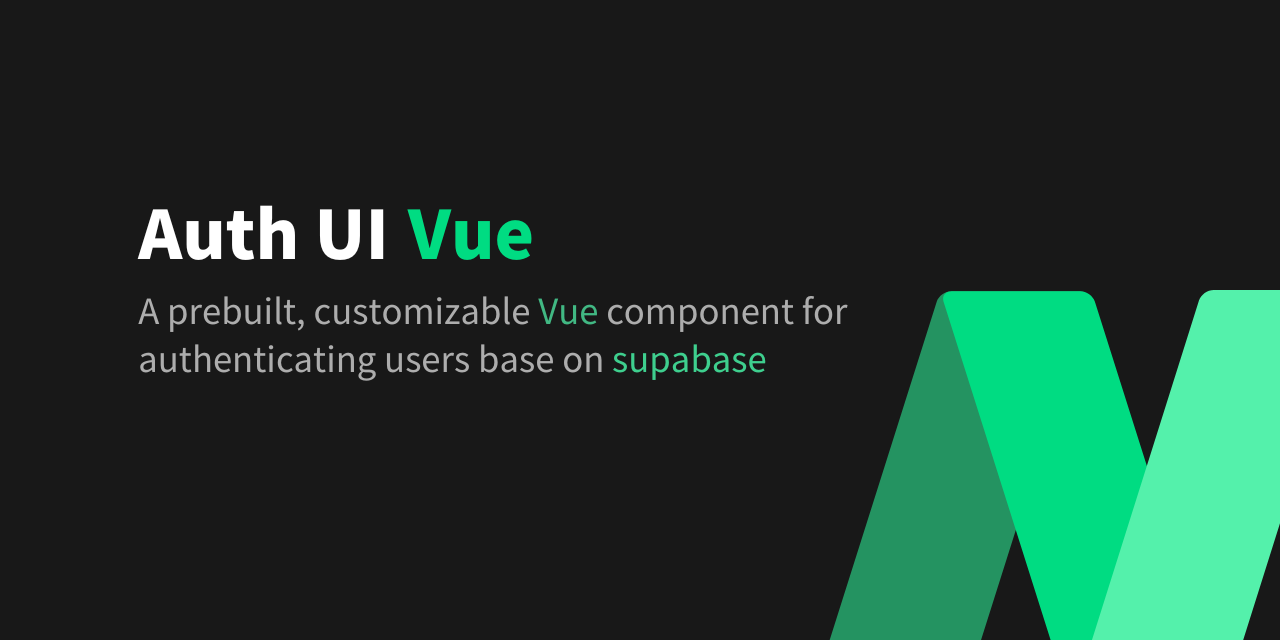
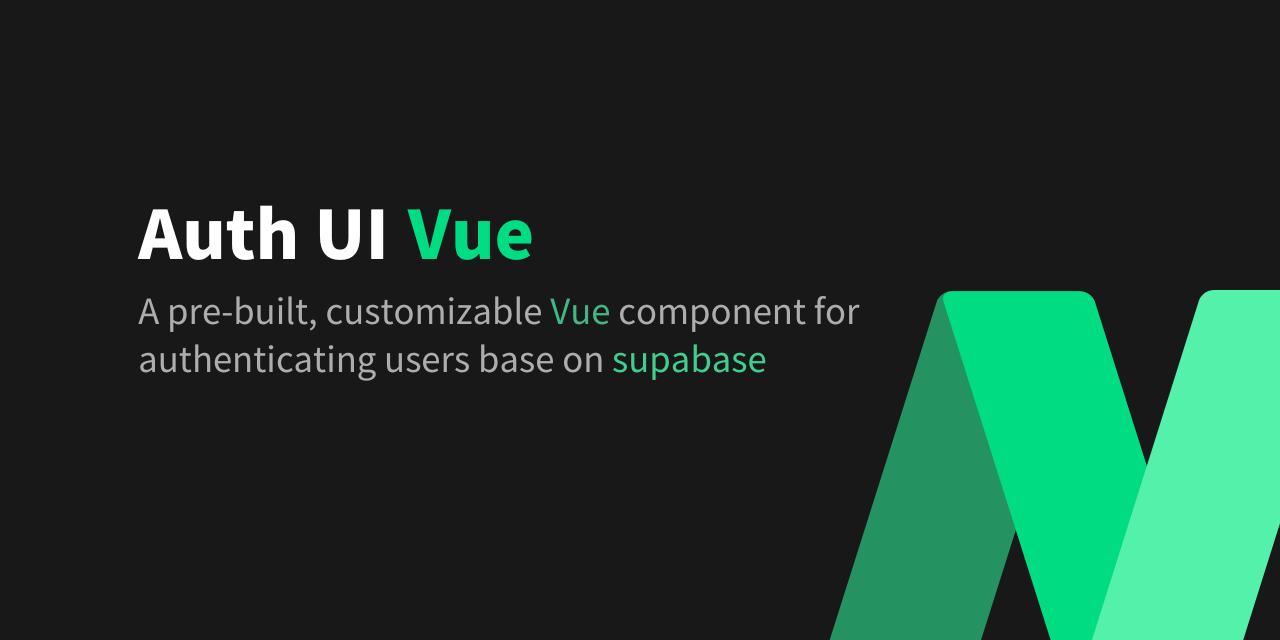
chore: release v0.0.1

Changed region(s): [[0.1562, 0.4688, 0.6875, 0.5312]]

diff --git a/src/composables/useSEOHeader.ts b/src/composables/useSEOHeader.ts
@@ -20,11 +20,11 @@ const useSEOHeader = () => {
     description: 'Pre-built auth ui for Vue 3 | Nuxt 3',
     ogDescription: 'Pre-built auth ui for Vue 3 | Nuxt 3',
     ogTitle: 'Auth UI Vue',
-    ogImage: 'https://auth-ui-vue.vercel.app/og.png',
+    ogImage: 'https://auth-ui-vue.netlify.app/og.png',
     ogImageHeight: '882',
     ogImageWidth: '1686',
     twitterCard: 'summary_large_image',
-    twitterImage: 'https://auth-ui-vue.vercel.app/og.png',
+    twitterImage: 'https://auth-ui-vue.netlify.app/og.png',
     twitterTitle: 'Auth UI Vue',
     twitterDescription: 'Pre-built auth ui for Vue 3 | Nuxt 3'
   })

diff --git a/README.md b/README.md
@@ -2,8 +2,9 @@
 
 ![@nuxtbase/auth-ui-vue minzip package size](https://img.shields.io/bundlephobia/minzip/@nuxtbase/auth-ui-vue)
 ![@nuxtbase/auth-ui-vue package version](https://img.shields.io/npm/v/@nuxtbase/auth-ui-vue.svg?colorB=green)
+[![Netlify Status](https://api.netlify.com/api/v1/badges/a855cf9a-2ec2-448a-a6a4-9661815bcb97/deploy-status)](https://app.netlify.com/sites/auth-ui-vue/deploys)
 
-> Pre-built auth ui widgets to get started in minutes.
+> Pre-built auth widgets to get started in minutes.
 
 ## Preview
 
@@ -11,7 +12,7 @@
 
 ## Introduction
 
-`auth-ui-vue` is a prebuilt, customizable `Vue` component for authenticating users base on `supabase`
+`auth-ui-vue` is a pre-built, customizable `Vue` component for authenticating users base on `supabase`
 
 Customizable authentication UI component with custom themes and extensible styles to match your brand and aesthetic.
 
@@ -31,6 +32,28 @@ yarn add @nuxtbase/auth-ui-vue
 
 ```html
 <!-- App.vue -->
+<template>
+  ...
+  <Auth
+    :appearance="{
+      theme: ThemeSupa,
+    }"
+    :supabase-client="supabase"
+  />
+  ...
+</template>
+
+<script setup lang="ts">
+import { ThemeSupa } from '@supabase/auth-ui-shared'
+import { createClient } from '@supabase/supabase-js'
+
+import Auth from '@nuxtbase/auth-ui-vue'
+
+const supabase = createClient(
+  import.meta.env.VITE_SUPABASE_URL,
+  import.meta.env.VITE_SUPABASE_ANON_KEY
+)
+</script>
 ```
 
 ### For Nuxt 3

diff --git a/CHANGELOG.md b/CHANGELOG.md
@@ -1,0 +1,9 @@
+## 0.0.1 (2023-08-08)
+
+
+### Features
+
+* improve the code ([11eadb7](https://github.com/xiaoluoboding/auth-ui-vue/commit/11eadb71b9eb2256a5cec7c215746536ee1a0f71))
+
+
+
